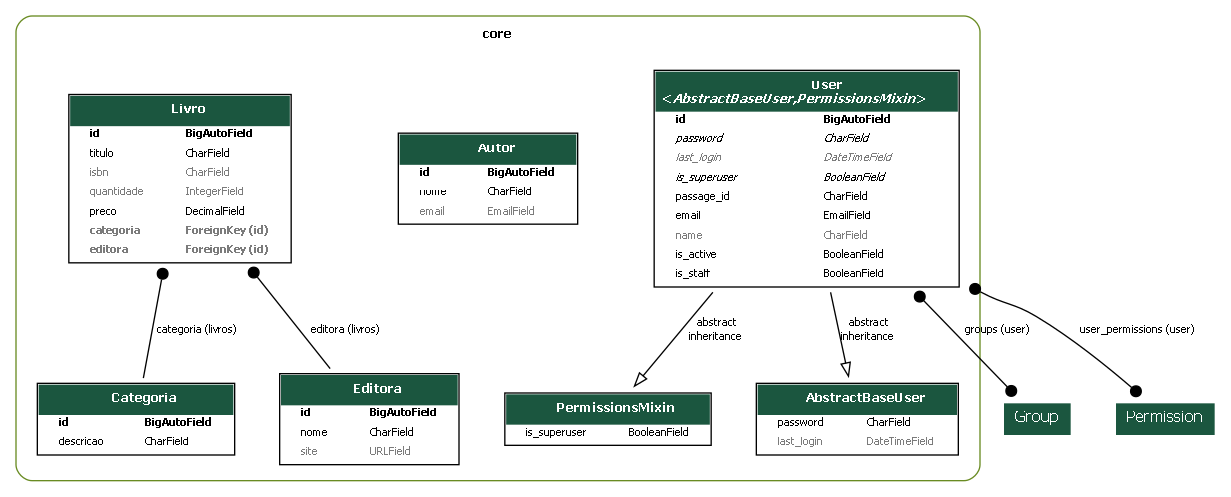
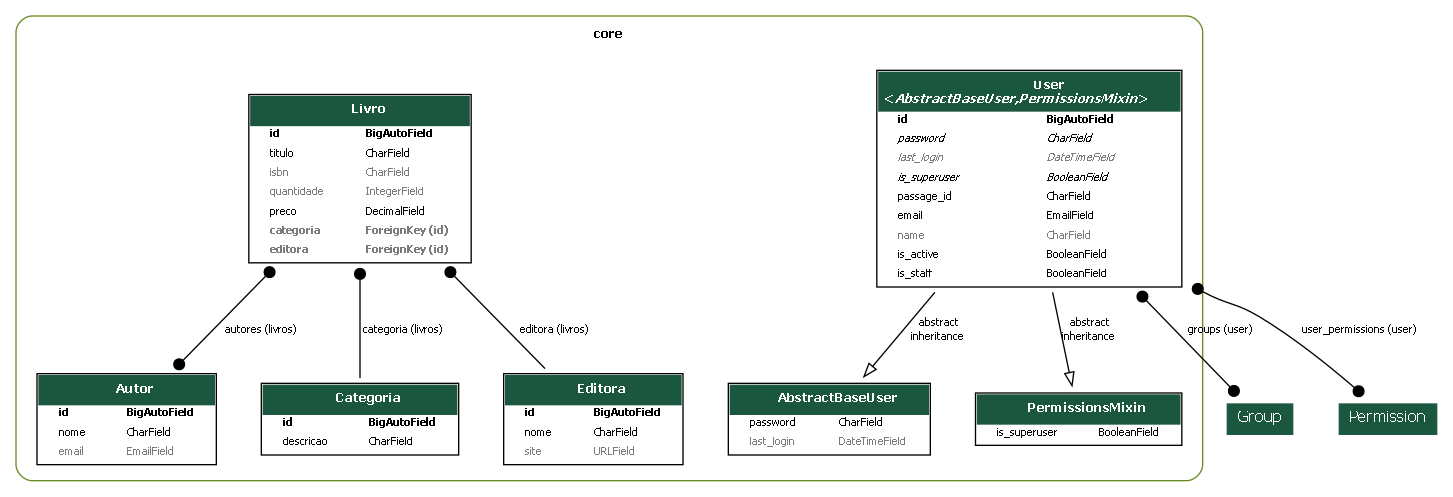
feat: inclusão do relacionamento n para n entre Livro e Autor

diff --git a/core/migrations/0010_livro_autores.py b/core/migrations/0010_livro_autores.py
@@ -1,0 +1,18 @@
+# Generated by Django 5.1.7 on 2025-10-23 20:47
+
+from django.db import migrations, models
+
+
+class Migration(migrations.Migration):
+
+    dependencies = [
+        ('core', '0009_livro_categoria_livro_editora'),
+    ]
+
+    operations = [
+        migrations.AddField(
+            model_name='livro',
+            name='autores',
+            field=models.ManyToManyField(blank=True, related_name='livros', to='core.autor'),
+        ),
+    ]

diff --git a/core/models/livro.py b/core/models/livro.py
@@ -15,6 +15,7 @@ class Livro(models.Model):
     editora = models.ForeignKey(
         Editora, on_delete=models.PROTECT, related_name='livros', null=True, blank=True
     )
+    autores = models.ManyToManyField('Autor', related_name='livros', blank=True)
 
     def __str__(self):
         return f'({self.id}) {self.titulo} ({self.quantidade})'
